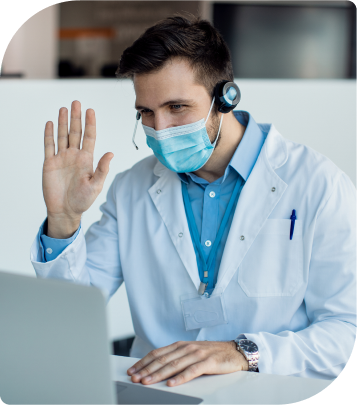
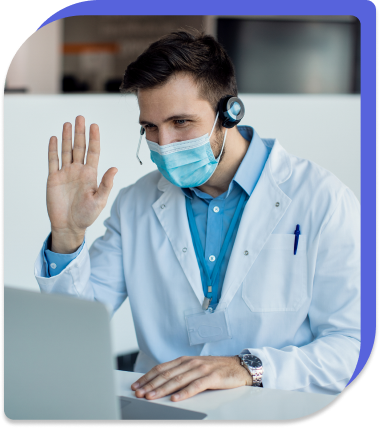
build: add medis style

diff --git a/src/components/landingPage/heroSection.tsx b/src/components/landingPage/heroSection.tsx
@@ -2,10 +2,11 @@ import {
   Container, Typography, Grid, Button,
 } from '@mui/material';
 import { Link } from 'react-router-dom';
-import { backehero, hero } from '../../assets';
+import { hero } from '../../assets';
+import './style.css';
 
 const HeroSection = () => (
-  <div style={{ backgroundColor: '#F4F7FF', height: '29rem' }}>
+  <div className="hersection">
     <Container>
       <Grid container spacing={2} mt={5}>
         <Grid item xs={12} md={6} lg={6} sx={{ mt: 5 }}>
@@ -27,19 +28,31 @@ const HeroSection = () => (
             <Link to="/therapists" style={{ textDecoration: 'none', color: 'white' }}>
               Discover our therapists
             </Link>
-
           </Button>
         </Grid>
-        <Grid item xs={12} md={6} lg={6}>
-          <div style={{ position: 'relative' }}>
-            <img src={backehero} alt="hero" style={{ position: 'absolute', top: '8px', left: '-12px' }} />
-            <img src={hero} alt="hero" style={{ position: 'absolute', top: 0, left: 0 }} />
-          </div>
+        <Grid
+          item
+          xs={12}
+          md={6}
+          lg={6}
+          sx={{
+            display: 'flex',
+            justifyContent: 'center',
+            alignItems: 'center',
+            '@media (max-width: 600px)': {
+              // marginTop: '10rem',
+
+              // margin: '3rem',
+              marginBottom: '5rem',
+            },
+          }}
+        >
+          <img src={hero} alt="hero" style={{ maxWidth: '100%' }} />
         </Grid>
       </Grid>
-
     </Container>
   </div>
+
 );
 
 export default HeroSection;

diff --git a/src/assets/index.tsx b/src/assets/index.tsx
@@ -1,5 +1,4 @@
 /* eslint-disable react-refresh/only-export-components */
-import backehero from './img/backehero.png';
 import hero from './img/hero.png';
 import icon1 from './img/icon (1).png';
 import icon2 from './img/icon (2).png';
@@ -12,6 +11,6 @@ import meet from './img/meet.png';
 import Worldimg from './img/World.png';
 
 export {
-  hero, backehero, icon1, icon2, icon3, icon4, online,
+  hero, icon1, icon2, icon3, icon4, online,
   online2, group, meet, Worldimg,
 };

diff --git a/src/components/landingPage/style.css b/src/components/landingPage/style.css
@@ -1,0 +1,11 @@
+.hersection{
+  background-color: #F4F7FF;
+  height: '29rem' 
+}
+@media only screen and (max-width: 600px) {
+  .hersection {
+    height: 50rem;
+    text-align: center;
+  }
+  
+}
